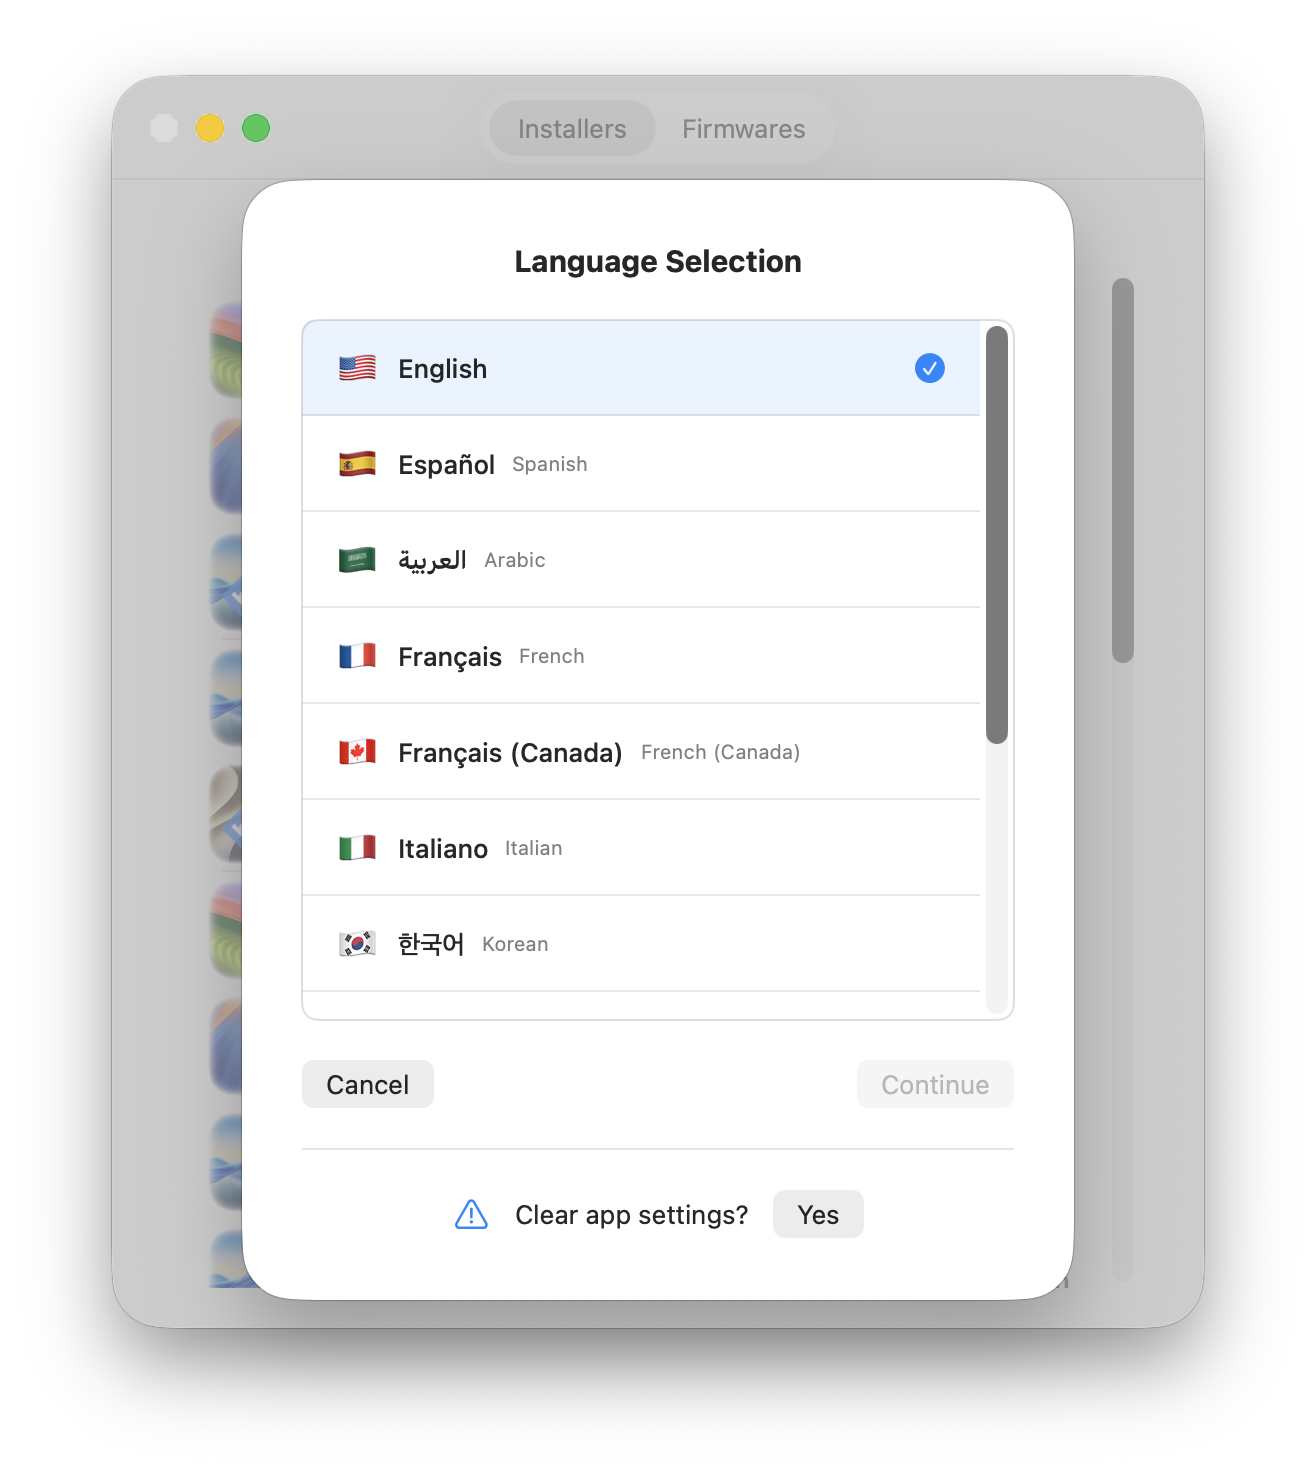
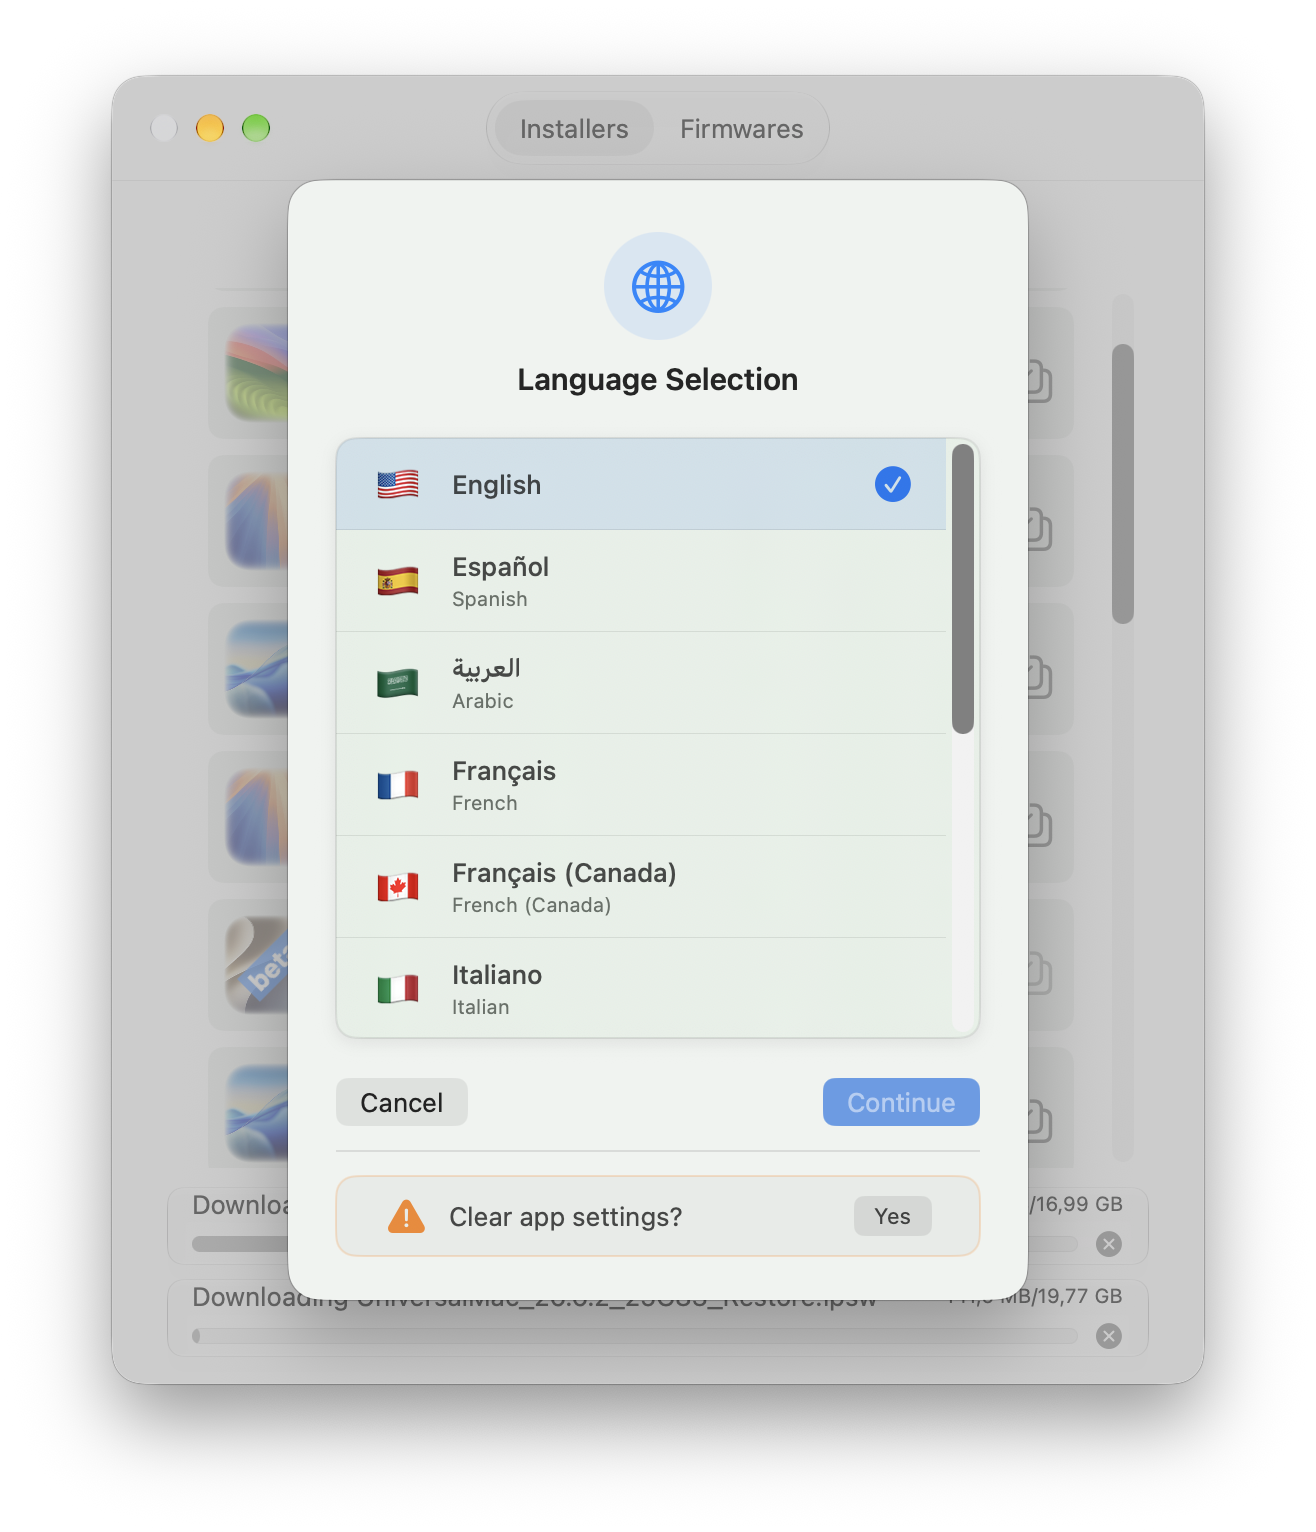
Update screenshots and README

diff --git a/README.md b/README.md
@@ -10,8 +10,7 @@
 
 |     |
 | --- |
-| ![Installers](Images/Window1-light.png) |
-| ![Firmwares](Images/Window2-light.png) |
+| ![Installers](Images/Window1.png) |
 
 ### Preface
 
@@ -56,10 +55,6 @@ Full credit for the original idea and architecture goes to <em>scriptingosx</em>
 
 A new item called Legacy has been added to the macOS systems dropdown list. Legacy opens a new window listing the five available legacy macOS versions, each with its own direct download link. You can download any of these legacy macOS versions from this window.
 
-|    |    |
-|:---:|:---:|
-| ![Legacy item](Images/Legacy-1.png) | ![Legacy download](Images/Legacy-2.png) 
-
 ### Create Installer App Feature
 
 After downloading an `InstallAssistant.pkg` file, you can create the macOS installer application (e.g., "Install macOS Sequoia.app") directly from within Download Full Installer:
@@ -73,6 +68,10 @@ After downloading an `InstallAssistant.pkg` file, you can create the macOS insta
 ### Settings to select downloads folder
 
 Download Full Installer -> Settings menu (⌘ ,) opens a window where you can select a different folder to download installers. Default is ~/Downloads. Visual indicators (green marks) of downloaded installers are updated to match those in the selected folder.
+
+|     |
+| --- |
+| ![Languages](Images/Settings.png) |
 
 ### Language selector window
 
